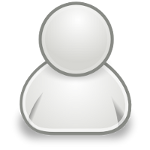
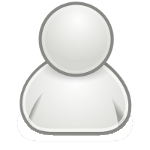
Arreglado header centrado

Changed region(s): [[0.1067, 0.7733, 0.88, 0.9333]]

diff --git a/css/interfaz.css b/css/interfaz.css
@@ -134,6 +134,17 @@ table{
 }
 
 #fotousuario{
+    height: 50px;
+    width: 50px;
+    text-align: right;
+    border-radius: 50% 50% 50% 50%;
+    -moz-border-radius: 50% 50% 50% 50%;
+    -webkit-border-radius: 50% 50% 50% 50%;
+    overflow: hidden;
+}
+
+#fotousuario img{
+    text-align: right;
     height: 100%;
     overflow: hidden;
 }
@@ -380,9 +391,9 @@ table{
     margin-bottom: 2px;
     margin-right: 10px;
     height: 50px;
-    border-radius: 25px 25px 25px 25px;
-    -moz-border-radius: 25px 25px 25px 25px;
-    -webkit-border-radius: 25px 25px 25px 25px;
+    border-radius: 50% 50% 50% 50%;
+    -moz-border-radius: 50% 50% 50% 50%;
+    -webkit-border-radius: 50% 50% 50% 50%;
     overflow: hidden;
 }
 
@@ -399,9 +410,9 @@ table{
     margin-bottom: 2px;
     margin-right: 10px;
     height: 30px;
-    border-radius: 15px 15px 15px 15px;
-    -moz-border-radius: 15px 15px 15px 15px;
-    -webkit-border-radius: 15px 15px 15px 15px;
+    border-radius: 50% 50% 50% 50%;
+    -moz-border-radius: 50% 50% 50% 50%;
+    -webkit-border-radius: 50% 50% 50% 50%;
     overflow: hidden;
 }
 

diff --git a/css/rejilla.css b/css/rejilla.css
@@ -76,22 +76,13 @@ header{
 }
 
 #fotoHeader{
-    width: 50px;
-    text-align: center;
-    background-color: white;
-    margin-top: 2px;
-    margin-bottom: 2px;
-    margin-right: 10px;
-    height: 50px;
-    border-radius: 25px 25px 25px 25px;
-    -moz-border-radius: 25px 25px 25px 25px;
-    -webkit-border-radius: 25px 25px 25px 25px;
-    overflow: hidden;
+    width: 16.5%;
+    text-align: right;
 }
 
 #logoHeader{
     margin-left: 5px;
-    width: 100%;
+    width: 67%;
     text-align: center;
 }
 
